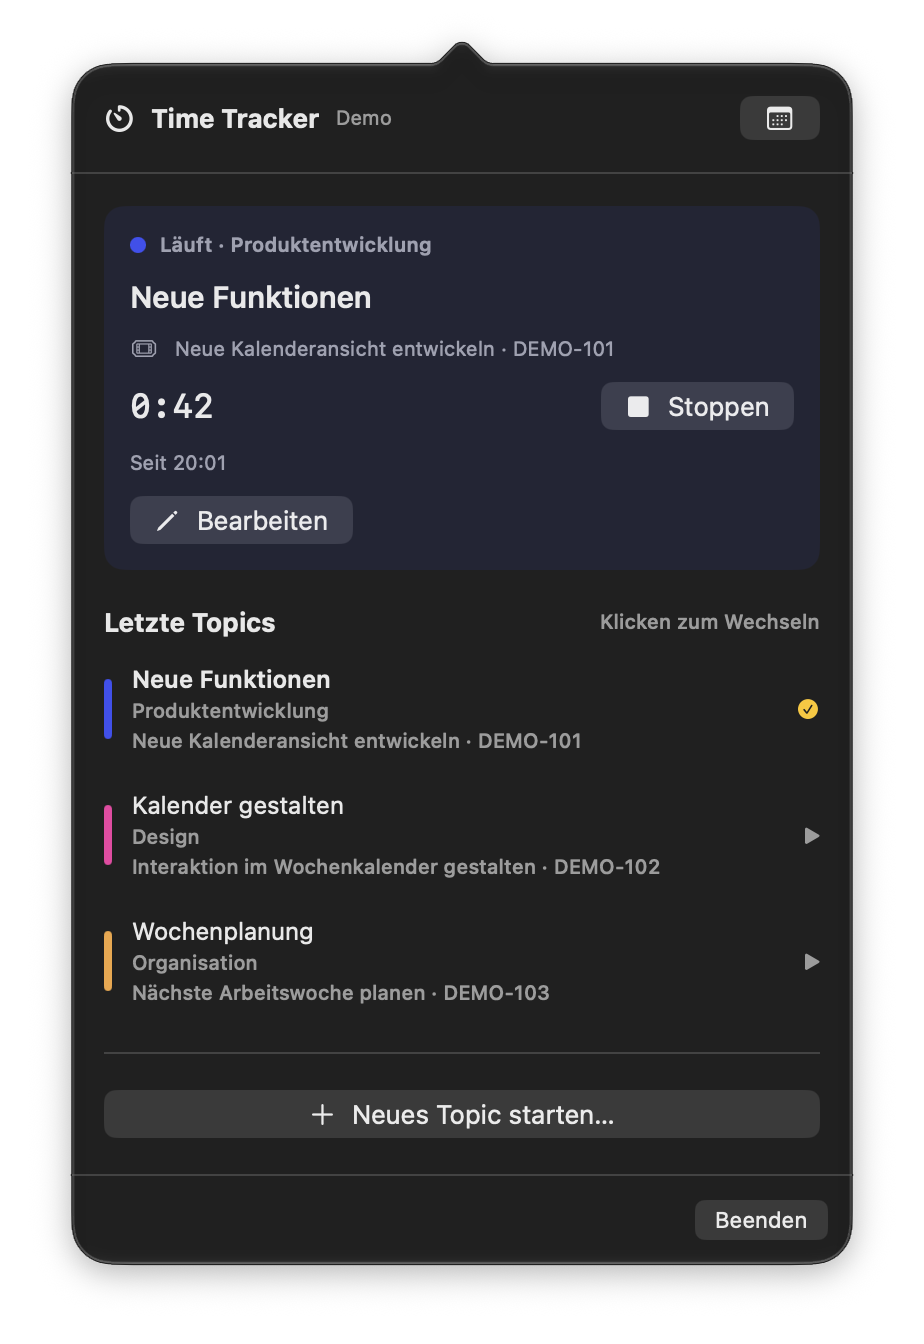
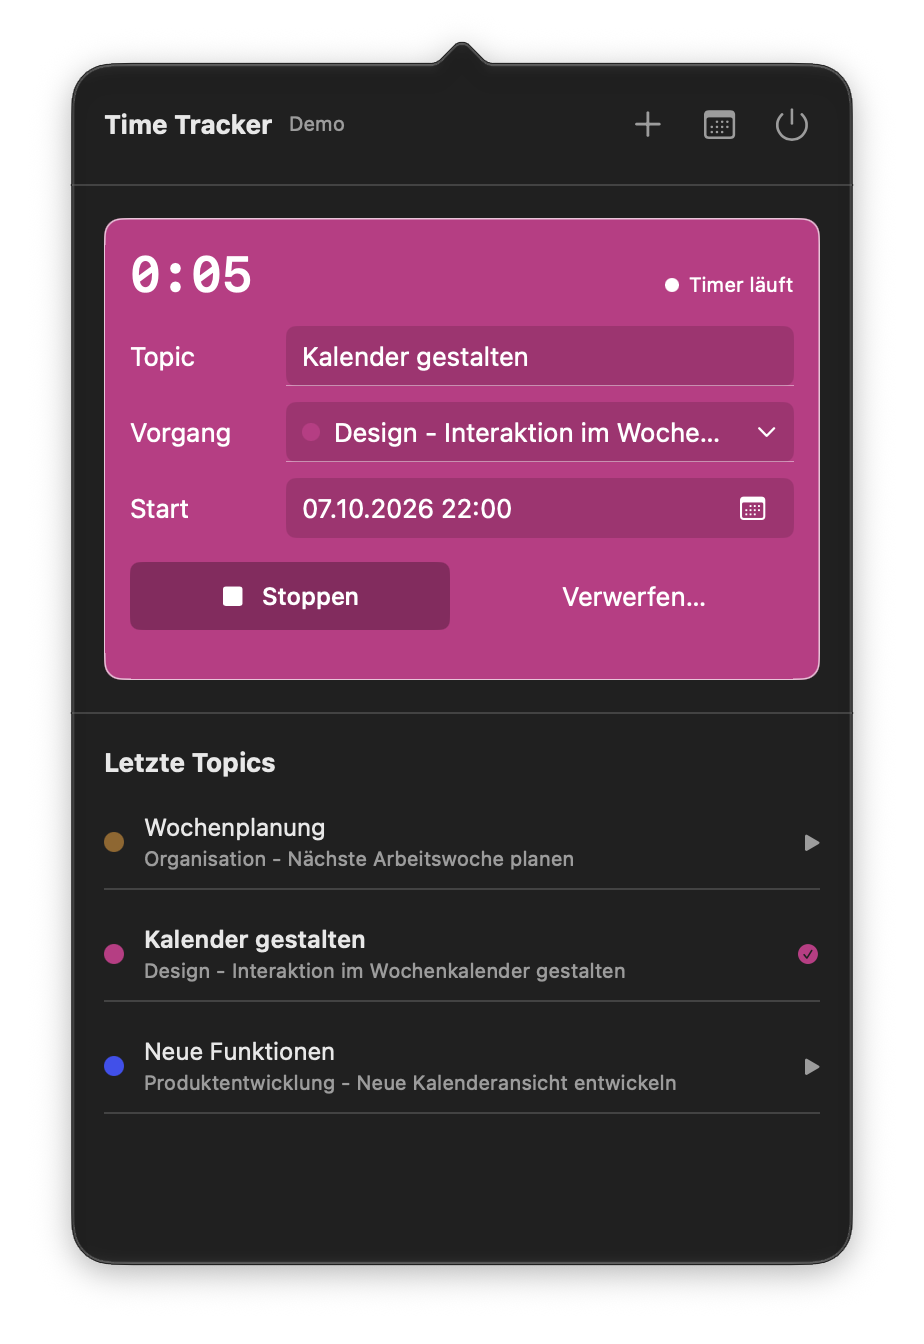
Document Time Tracker 0.5.0 with demo screenshots

diff --git a/README.md b/README.md
@@ -13,17 +13,20 @@ This repository provides product documentation, release notes, distribution arch
 - Start tracking immediately, with optional booking text, project, and a locally maintained Jira issue.
 - Start, switch, and stop timers from the main window or menu bar; discard a running timer after confirmation.
 - Review and edit time in a weekly calendar with daily totals, including entries that cross midnight, and edit a running entry's details and start time without stopping it.
-- Reuse topic templates while keeping each existing entry's booking text, project, and Jira issue unchanged by template edits.
-- Preselect the latest booking's project and Jira issue for new capture, and restore historical assignments when choosing a topic suggestion.
-- Start a new topic immediately from the menu bar and edit the running timer in a project-colored card, with flat project/Jira lists, a date-and-time calendar, and a native Liquid Glass popover background.
-- Use a shared project palette with hue-preserving, contrast-adjusted brightness and consistent saturation, plus white menu-bar text and subtle daily progress; remove recent-topic shortcuts without deleting historical records.
+- Reuse topics from the newest 100 time entries by start time, deduplicated by exact booking text, project, and local issue. Editing or deleting a record updates this history immediately; no separate topic templates are maintained.
+- Preselect the latest booking's optional local issue and its project for new capture, and restore the source entry's assignments when choosing a topic suggestion.
+- Start a new topic immediately from the menu bar and edit the running timer in a project-colored card that stays visible above scrollable topic history, with a combined project/issue selector, a date-and-time calendar, and a native Liquid Glass popover background.
+- Use a shared project palette with hue-preserving, contrast-adjusted brightness and consistent saturation, plus white menu-bar text and subtle daily progress.
+- Manage projects, local issues, and the Tempo Cloud connection in Settings. Local issues can use a label without a Jira key; their project determines the color and filter for assigned bookings. Changing an issue's project updates its existing bookings, including the running timer, while retaining entry IDs, booking text, and time boundaries.
+- Search Jira Cloud by exact issue key, title text, or an optional JQL filter, then adopt selected issues locally. Reloading refreshes the Jira key and title while retaining the local label and project; issues from different Jira sites stay separate. Search and local adoption do not create or modify remote Jira tickets.
+- Remove an issue's Jira link while retaining its local label, project, and booking assignments.
 - Keep tracking records locally, with atomic saves and a backup of the previous valid snapshot.
-- Export completed records as a neutral CSV.
-- Preview, export, and transfer worklogs through the optional Tempo Cloud connection, with a local journal to prevent duplicate in-app transfers.
+- Export completed records as a neutral CSV, including the local issue label and an empty Jira key for unlinked issues.
+- Preview, export, and transfer worklogs through the optional Tempo Cloud connection, with a local journal to prevent duplicate in-app transfers. Manage the connection in Settings → Tempo Cloud, also accessible from the import dialog.
 
 The current interface is German. Local tracking does not require a Jira connection, Homebrew, or API tokens. Maintaining an issue locally does not create it in Jira.
 
-The neutral CSV is **not a verified Tempo import format**. Tempo Cloud requires the user's own Jira and Tempo credentials and assigns worklogs to that user's account. Every transferred worklog requires exactly one locally maintained Jira issue. Live Tempo transfer and access permissions remain acceptance checks; development validation uses mocked HTTP and isolated demo data.
+The neutral CSV is **not a verified Tempo import format**. Tempo Cloud requires the user's own Jira and Tempo credentials and assigns worklogs to that user's account. Every transferred worklog requires exactly one locally maintained issue with a valid Jira link. Bookings without an issue or Jira link remain blocked while valid bookings can be imported. Live Tempo transfer and access permissions remain acceptance checks; development validation uses mocked HTTP and isolated demo data.
 
 Tempo combines completed bookings with the same exact booking text, Jira issue, required attributes, and day in the author's Jira profile time zone. Captured durations are summed before each worklog is rounded to the nearest 15 minutes, with halfway values rounded up and a minimum of 15 minutes. Worklogs transfer their date and duration without the captured start time. Local records remain unchanged.
 
@@ -33,11 +36,11 @@ Required Tempo work attributes appear as immutable per-ticket preview columns. T
 
 ![Weekly calendar](assets/screenshots/weekly-calendar.png)
 
-Time Tracker 0.3.0 — weekly calendar in an isolated demo view.
+Time Tracker 0.5.0 — weekly calendar in an isolated demo view.
 
 ![Menu bar popover](assets/screenshots/menu-bar-popover.png)
 
-Time Tracker 0.3.0 — menu bar popover in an isolated demo view.
+Time Tracker 0.5.0 — menu bar popover in an isolated demo view.
 
 ## Requirements
 
@@ -79,9 +82,11 @@ Quitting does not stop an active timer. Installation and updates preserve local 
 
 Tracking records and the Tempo import journal are stored in `~/Library/Application Support/Time Tracker/`. Jira and Tempo tokens are stored in the macOS login Keychain. Back up the tracking file and import journal together; the journal records transfers that must not be repeated.
 
-Version 0.2.0 upgrades older tracking data in memory to store each entry's own booking text and project. Loading alone leaves the file unchanged; the first successful change saves the upgraded format and backs up the original file. Older app versions cannot read the upgraded tracking file.
+Version 0.5.0 upgrades schemas 1–4 in memory to schema 5, which derives topics from entries and stores each local issue's optional Jira link and project. A unique existing project is retained; issues previously used in multiple projects require an explicit choice in Settings before changes can be saved. That choice applies to all bookings assigned to the issue. Entry IDs, booking text, and time boundaries are preserved, and bookings without an issue keep their project. Loading alone leaves the file unchanged; the first successful change or completed conflict resolution saves the upgraded format and backs up the original file. Older app versions cannot read the upgraded tracking file.
 
 Replacing the development build with a Developer ID signed build may require reauthorizing or re-entering the saved connection credentials. Installation and upgrades must preserve tracking records and the import journal.
+
+Jira and Tempo errors are recorded in `Logs/tempo-jira-errors.jsonl` under the data folder, with rotation limited to five files of 1 MiB each. Records contain technical error metadata without tokens, booking or search text, raw URLs, or response bodies. Open the diagnostic folder from Settings → Tempo Cloud; demo logging is disabled.
 
 ## Support
 
